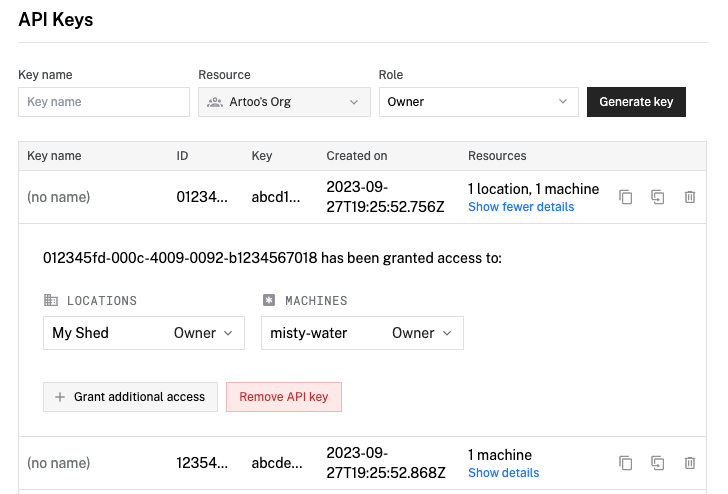
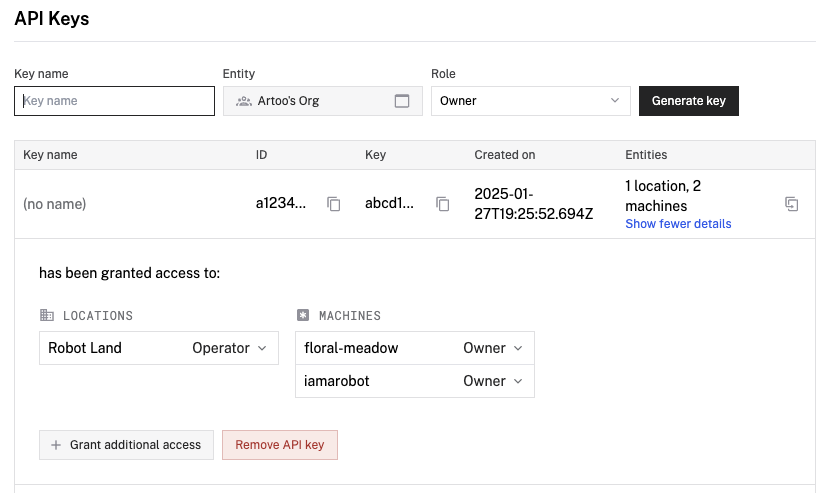
DOCS-3728: Change resources to entities in org settings (#4172)

diff --git a/docs/manage/manage/access.md b/docs/manage/manage/access.md
@@ -26,9 +26,9 @@ You must have the **Owner** role to be able to grant permissions.
 4. Click on **Grant access**.
 5. Enter a user's **Email** address.
 
-   {{< imgproc alt="The user invitation menu on the Organization settings page." src="/fleet/app-usage/invite-user.png" resize="700x" declaredimensions=true >}}
+   {{< imgproc alt="The user invitation menu on the Organization settings page." src="/fleet/app-usage/invite-user.png" resize="700x" declaredimensions=true class="shadow" >}}
 
-6. Select an {{< glossary_tooltip term_id="organization" text="organization" >}}, a {{< glossary_tooltip term_id="location" text="location" >}}, or a {{< glossary_tooltip term_id="machine" text="machine" >}} as the **Resource** to share.
+6. Select an {{< glossary_tooltip term_id="organization" text="organization" >}}, a {{< glossary_tooltip term_id="location" text="location" >}}, or a {{< glossary_tooltip term_id="machine" text="machine" >}} as the **Entity** to share.
 
    Users with access to a location or organization can collaborate on the [machines](/operate/get-started/basics/#what-is-a-machine) within it.
 
@@ -38,7 +38,7 @@ You must have the **Owner** role to be able to grant permissions.
 
 8. Click **invite**.
 
-   {{<imgproc src="/fleet/app-usage/limit-access.png" resize="1000x" style="width: 600px" class="" declaredimensions=true alt="Limit user access">}}
+   {{<imgproc src="/fleet/app-usage/limit-access.png" resize="1000x" style="width: 600px" class="shadow" declaredimensions=true alt="Limit user access">}}
 
 ### Share a location with an organization
 
@@ -68,7 +68,7 @@ You must have the **Owner** role to be able to limit permissions.
 4. Click on the user to open the access settings for the user.
 5. Either change the role of the user from owner to operator with the dropdown or click on **Limit access** and change the resource the user has [access](/manage/manage/rbac/).
    You can also remove the user by clicking on **Remove user**.
-   {{< imgproc alt="The user invitation menu on the Organization settings page." src="/fleet/app-usage/limit-access.png" resize="800x" declaredimensions=true >}}
+   {{< imgproc alt="The user invitation menu on the Organization settings page." src="/fleet/app-usage/limit-access.png" resize="800x" declaredimensions=true class="shadow" >}}
 
 {{< table >}}
 {{< /table >}}

diff --git a/docs/operate/control/api-keys.md b/docs/operate/control/api-keys.md
@@ -19,7 +19,7 @@ To view all API keys in use for your organization and the locations and machines
 
 On your organization's page, click **Generate key** to generate a new key.
 Optionally, give the key a name.
-Click on the **Resource** menu and choose what organization, location, or machine you want the key to grant access to.
+Click on the **Entity** menu and choose what organization, location, or machine you want the key to grant access to.
 If you select organization, your key grants access to all locations and machines contained within that organization.
 If you select location, your key grants access to all of the machines contained within that location.
 
@@ -28,7 +28,7 @@ See [Permissions](/manage/manage/rbac/) for information about the privilege each
 
 ## Change an API key's access
 
-To edit an API key, click on **Show details** in the key's row of the key table's **Resources** column.
+To edit an API key, click on **Show details** in the key's row of the key table's **Entities** column.
 
 {{<imgproc src="/fleet/additional-details.png" resize="700x" declaredimensions=true alt="Additional details for a key" class="shadow" >}}
 

diff --git a/docs/tutorials/control/flutter-app.md b/docs/tutorials/control/flutter-app.md
@@ -406,7 +406,7 @@ Follow the steps below to get your API key and create an environment variables f
 
    1. Click **Generate key**.
    2. Give the key a name like "flutter-app-my-org-name."
-   3. Click the **Resource** dropdown and select your organization.
+   3. Click the **Entity** dropdown and select your organization.
    4. Set **Role** to **Owner**.
    5. Click **Generate key**.
    6. Find your new key at the bottom of the list.

diff --git a/docs/tutorials/control/air-quality-fleet.md b/docs/tutorials/control/air-quality-fleet.md
@@ -479,7 +479,7 @@ The following instructions describe how to set up an API key for one location.
 
 1.  Name your key something such as `air-sensors-key`.
 
-1.  Select **Resource** and choose the location you have all your air quality sensing machines in.
+1.  Select **Entity** and choose the location you have all your air quality sensing machines in.
 
 1.  Set the **Role** to **Owner**, then click **Generate key**.
 
